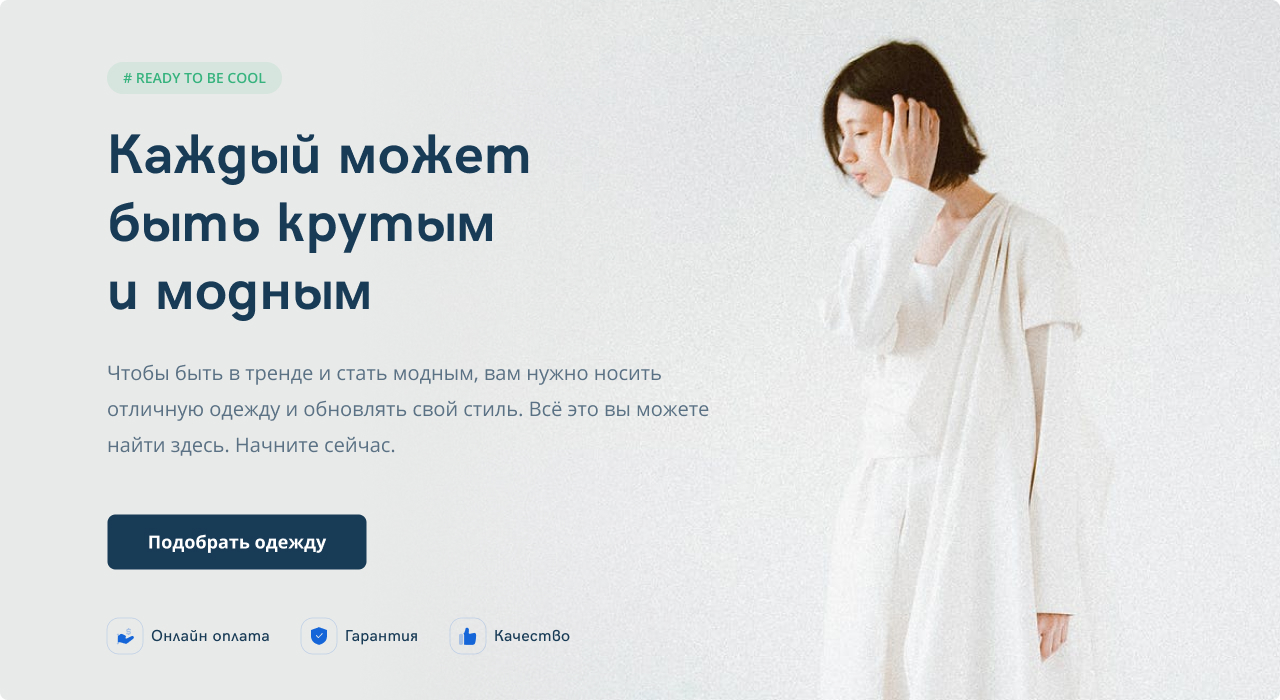
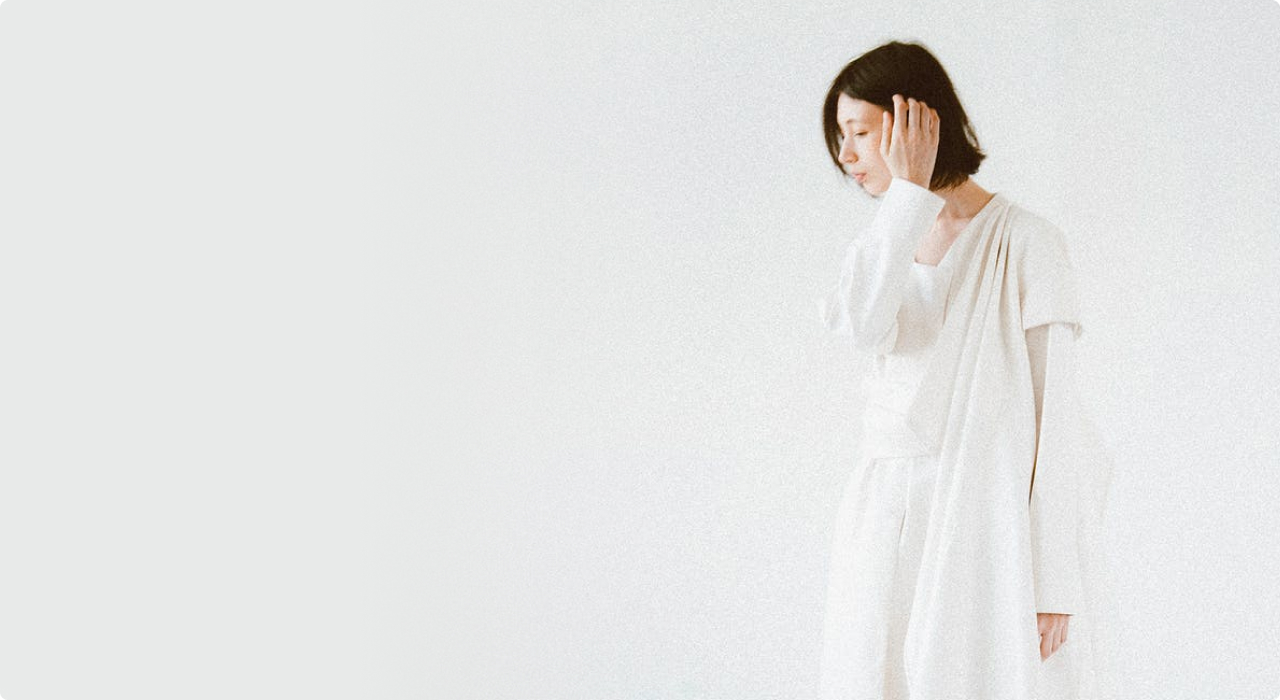
create: created styles for hero section

diff --git a/css/style.css b/css/style.css
@@ -1,1 +1,1 @@
-*{box-sizing:border-box}.container{max-width:1140px;margin:auto}img{max-width:100%}.navbar-menu{font-family:Open Sans, sans-serif}.navbar-menu__wrapper{padding:26px 0;display:flex;align-items:center;justify-content:space-between}.navbar-menu__logo{margin-right:393px}.navbar-menu__list{margin:0;padding:0;display:flex;max-width:506px;align-items:center;flex-wrap:wrap;justify-content:space-evenly;list-style-type:none}.navbar-menu__item+.navbar-menu__item{margin-left:40px}.navbar-menu__link{font-style:normal;font-weight:600;font-size:16px;line-height:22px;text-align:center;color:#183B56;text-decoration:none}.navbar-menu__button{margin-left:50px;padding:13px 24px;min-width:101px;min-height:48px;font-style:normal;font-weight:bold;font-size:16px;line-height:22px;border-radius:8px;cursor:pointer;border:2px solid #1565D8;color:#1565D8;filter:drop-shadow(0px 10px 25px rgba(21,37,72,0.1))}
+*{box-sizing:border-box}.container{max-width:1140px;margin:auto}img{max-width:100%}.navbar-menu{font-family:Open Sans, sans-serif}.navbar-menu__wrapper{padding:26px 0;display:flex;align-items:center;justify-content:space-between}.navbar-menu__logo{margin-right:393px}.navbar-menu__list{margin:0;padding:0;display:flex;max-width:506px;align-items:center;flex-wrap:wrap;justify-content:space-between;list-style-type:none}.navbar-menu__item+.navbar-menu__item{margin-left:40px}.navbar-menu__link{font-style:normal;font-weight:600;font-size:16px;line-height:22px;text-align:center;color:#183B56;text-decoration:none}.navbar-menu__button{margin-left:50px;padding:13px 24px;min-width:101px;min-height:48px;font-style:normal;font-weight:bold;font-size:16px;line-height:22px;border-radius:8px;cursor:pointer;border:2px solid #1565D8;color:#1565D8;filter:drop-shadow(0px 10px 25px rgba(21,37,72,0.1))}.hero{position:relative;margin:auto;padding:62px 0 46px 107px;width:1280px;min-height:700px;border-radius:8px;overflow:hidden;background:#E8EAE9}.hero::before{position:absolute;left:27.97%;right:-11.88%;top:-53.86%;bottom:-76.71%;z-index:2;content:'';border-radius:inherit;background:linear-gradient(270deg, rgba(238,238,238,0.0001) 67.34%, #E8EAE9 100%)}.hero__image{position:absolute;top:-357px;bottom:0;left:358px;right:0;border-radius:inherit;object-fit:cover;z-index:1}.hero__wrapper{display:flex;flex-direction:column;align-items:flex-start}.hero__tag{padding:6px 16px;width:175px;height:32px;font-family:Open Sans, sans-serif;font-style:normal;font-weight:600;font-size:14px;line-height:20px;text-align:center;background:rgba(54,179,126,0.1);border-radius:2000px;color:#36B37E}.hero__title{margin:0;max-width:425px;font-family:Open Sans, sans-serif;font-style:normal;font-weight:bold;font-size:56px;line-height:68px;letter-spacing:0.2px;color:#183B56}.hero__tag+.hero__title{margin-top:28px}.hero__description{margin:0;max-width:652px;text-align:left;font-family:Open Sans, sans-serif;font-style:normal;font-weight:normal;font-size:20px;line-height:36px;color:#5A7184}.hero__title+.hero__description{margin-top:28px}.hero__button{margin-top:52px;padding:15px 40px;min-width:259px;min-height:55px;font-family:Open Sans, sans-serif;font-style:normal;font-weight:bold;font-size:18px;line-height:25px;cursor:pointer;color:#FFFFFF;background-color:#183B56;border-radius:8px}.hero__list{margin:0;margin-top:48px;padding:0;display:flex;max-width:464px;align-items:center;flex-wrap:wrap;list-style-type:none}.hero__item{display:flex}.hero__item+.hero__item{margin-left:31px}.hero__icon-wrapper{min-width:36px}.hero__link{margin-top:8px;font-family:Open Sans, sans-serif;font-style:normal;font-weight:500;font-size:16px;line-height:20px;letter-spacing:0.2px;color:#183B56;text-decoration:none}.hero__icon-wrapper+.hero__link{margin-left:8px}

diff --git a/sass/blocks/hero/_hero.sass b/sass/blocks/hero/_hero.sass
@@ -1,0 +1,110 @@
+.hero
+  position: relative
+  margin: auto
+  padding: 62px 0 46px 107px
+  width: 1280px
+  min-height: 700px
+  border-radius: 8px
+  overflow: hidden
+  background: #E8EAE9
+  &::before
+    position: absolute
+    left: 27.97%
+    right: -11.88%
+    top: -53.86%
+    bottom: -76.71%
+    z-index: 2
+    content: ''
+    border-radius: inherit
+    background: linear-gradient(270deg, rgba(238, 238, 238, 0.0001) 67.34%, #E8EAE9 100%)
+  &__image
+    position: absolute
+    top: -357px
+    bottom: 0
+    left: 358px
+    right: 0
+    border-radius: inherit
+    object-fit: cover
+    z-index: 1
+  &__wrapper
+    display: flex
+    flex-direction: column
+    align-items: flex-start
+  &__tag
+    padding: 6px 16px
+    width: 175px
+    height: 32px
+    font-family: Open Sans, sans-serif
+    font-style: normal
+    font-weight: 600
+    font-size: 14px
+    line-height: 20px
+    text-align: center
+    background: rgba(54, 179, 126, 0.1)
+    border-radius: 2000px
+    color: #36B37E
+  &__title
+    margin: 0
+    max-width: 425px
+    font-family: Open Sans, sans-serif
+    font-style: normal
+    font-weight: bold
+    font-size: 56px
+    line-height: 68px
+    letter-spacing: 0.2px
+    color: #183B56
+  &__tag + &__title
+    margin-top: 28px
+  &__description
+    margin: 0
+    max-width: 652px
+    text-align: left
+    font-family: Open Sans, sans-serif
+    font-style: normal
+    font-weight: normal
+    font-size: 20px
+    line-height: 36px
+    color: #5A7184
+  &__title + &__description
+    margin-top: 28px
+  &__button
+    margin-top: 52px
+    padding: 15px 40px
+    min-width: 259px
+    min-height: 55px
+    font-family: Open Sans, sans-serif
+    font-style: normal
+    font-weight: bold
+    font-size: 18px
+    line-height: 25px
+    cursor: pointer
+    color: #FFFFFF
+    background-color: #183B56
+    border-radius: 8px
+  &__list
+    margin: 0
+    margin-top: 48px
+    padding: 0
+    display: flex
+    max-width: 464px
+    align-items: center
+    flex-wrap: wrap
+    list-style-type: none
+  &__item
+    display: flex
+  &__item + &__item
+    margin-left: 31px
+  &__icon-wrapper
+    min-width: 36px
+  &__link
+    margin-top: 8px
+    font-family: Open Sans, sans-serif
+    font-style: normal
+    font-weight: 500
+    font-size: 16px
+    line-height: 20px
+    letter-spacing: 0.2px
+    color: #183B56
+    text-decoration: none
+  &__icon-wrapper + &__link
+    margin-left: 8px

diff --git a/index.html b/index.html
@@ -53,8 +53,9 @@
   </header>
   <!-- /.navbar-menu-->
 
-  <!-- Main section -->
+  <!-- Hero section -->
   <section class="hero">
+    <img src="sass/blocks/hero/img/hero.png" alt="Image of woman" class="hero__image">
     <div class="hero__wrapper">
       <div class="hero__tag"># READY TO BE COOL</div>
       <h1 class="hero__title">Каждый может быть крутым и модным</h1>
@@ -65,12 +66,36 @@
       </p>
       <button class="hero__button button">Подобрать одежду</button>
       <ul class="hero__list">
-        <li class="hero__item">Онлайн оплата</li>
-        <li class="hero__item">Гарантия</li>
-        <li class="hero__item">Качество</li>
+        <li class="hero__item">
+          <div class="hero__icon-wrapper">
+            <img
+              src="sass/blocks/hero/img/online.svg"
+              alt="Icon of online payment"
+              class="footer__icon" />
+          </div>
+          <a href="#" class="hero__link">Онлайн оплата</a>
+        </li>
+        <li class="hero__item">
+          <div class="hero__icon-wrapper">
+            <img
+              src="sass/blocks/hero/img/guarantee.svg"
+              alt="Icon of online payment"
+              class="footer__icon" />
+          </div>
+          <a href="#" class="hero__link">Гарантия</a>
+        </li>
+        <li class="hero__item">
+          <div class="hero__icon-wrapper">
+            <img
+              src="sass/blocks/hero/img/quality.svg"
+              alt="Icon of online payment"
+              class="footer__icon" />
+          </div>
+          <a href="#" class="hero__link">Качество</a>
+        </li>
       </ul>
     </div>
-    <!-- /.hero__wrapper -->
+    <!-- /.hero__text-wrapper -->
   </section>
   <!-- /.hero -->
 </body>
@@ -78,6 +103,7 @@
 <!-- Scripts -->
 <script src="js/jquery-3.5.1.min.js"></script>
 <script src="js/jquery.validate.min.js"></script>
+<script src="js/parallax.min.js"></script>
 <script src="js/swiper-bundle.min.js"></script>
 <script src="js/aos.js"></script>
 <script src="js/main.js"></script>

diff --git a/sass/blocks/header/_header.sass b/sass/blocks/header/_header.sass
@@ -13,7 +13,7 @@
     max-width: 506px
     align-items: center
     flex-wrap: wrap
-    justify-content: space-evenly
+    justify-content: space-between
     list-style-type: none
   &__item + &__item
     margin-left: 40px
